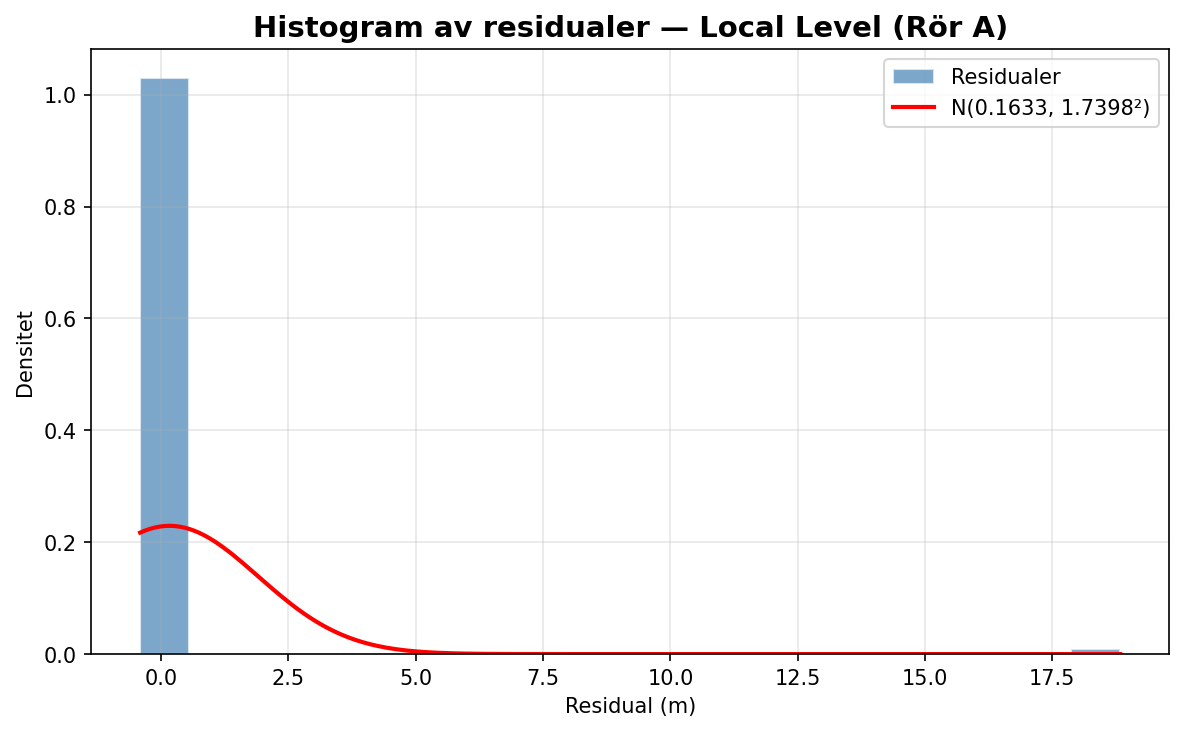
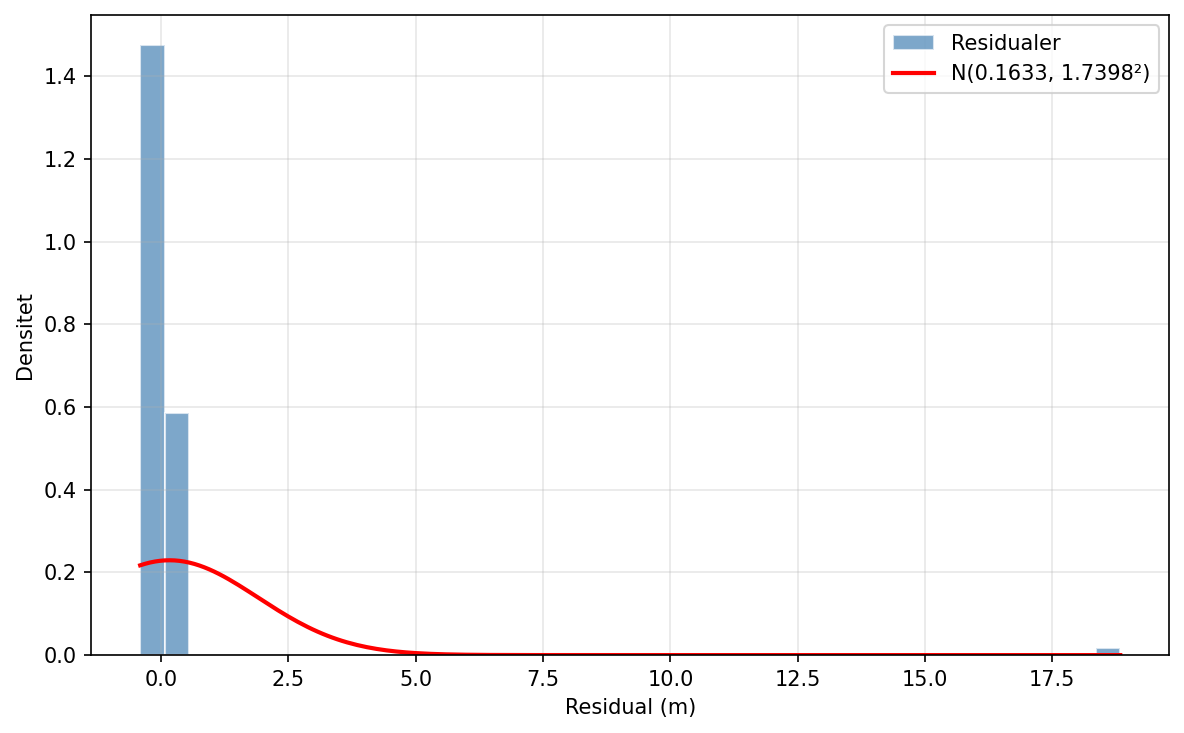
fixade residualerna
fixade residualerna

diff --git a/kandidatuppsats_endast_basror.py b/kandidatuppsats_endast_basror.py
@@ -419,7 +419,7 @@ def plot_histogram_residuals(out: dict, station_id: str) -> plt.Figure:
 
     fig, ax = plt.subplots(figsize=(8, 5))
 
-    ax.hist(residualer, bins=20, density=True, alpha=0.7,
+    ax.hist(residualer, bins=40, density=True, alpha=0.7,
             color="steelblue", edgecolor="white", label="Residualer")
 
     mu, sigma = residualer.mean(), residualer.std()
@@ -427,10 +427,7 @@ def plot_histogram_residuals(out: dict, station_id: str) -> plt.Figure:
     ax.plot(x, sp_stats.norm.pdf(x, mu, sigma),
             color="red", lw=2, label=f"N({mu:.4f}, {sigma:.4f}²)")
 
-    ax.set_title(
-        f"Histogram av residualer — Local Level ({station_id})",
-        fontsize=14, fontweight="bold",
-    )
+
     ax.set_xlabel("Residual (m)")
     ax.set_ylabel("Densitet")
     ax.legend()
@@ -439,7 +436,64 @@ def plot_histogram_residuals(out: dict, station_id: str) -> plt.Figure:
     return fig
 
 
+def plot_residuals_over_time(out: dict, station_id: str) -> plt.Figure:
+    """
+    Residualer över tid:
+    residual = observation - one-step-ahead prediction
+    """
 
+    obs = out["observed_base"]
+
+    # one-step-ahead prediction från Kalman-filtret
+    pred = out["filter_pred_base"].flatten()[:len(obs)]
+
+    residuals = obs - pred
+
+    # Tar bort NaN
+    valid = ~np.isnan(residuals)
+
+    dates = out["index"][valid]
+    residuals = residuals[valid]
+
+    if len(residuals) < 5:
+        print("  För få residualer för residualplot")
+        return None
+
+    fig, ax = plt.subplots(figsize=(14, 6))
+
+
+    # Residualserie
+    ax.plot(
+        dates,
+        residuals,
+        "o-",
+        color="steelblue",
+        linewidth=1.2,
+        markersize=3,
+        alpha=0.8,
+    )
+
+    # Horisontell linje vid 0
+    ax.axhline(0, color="black", linewidth=0.8)
+
+    ax.set_xlabel("Datum")
+    ax.set_ylabel("Residual")
+
+    # Datumformat
+    ax.xaxis.set_major_formatter(mdates.DateFormatter("%Y-%m"))
+
+    n_months = (dates[-1] - dates[0]).days / 30
+    interval = max(4, int(n_months / 8))
+
+    ax.xaxis.set_major_locator(mdates.MonthLocator(interval=interval))
+
+    plt.setp(ax.xaxis.get_majorticklabels(), rotation=30)
+
+    ax.grid(True, alpha=0.3)
+
+    plt.tight_layout()
+
+    return fig
 
 
 if __name__ == "__main__":
@@ -490,6 +544,23 @@ if __name__ == "__main__":
             fig_hist.savefig(hist_path, dpi=150, bbox_inches="tight")
             print(f"  Histogram sparad: {hist_path}")
             plt.close(fig_hist)
+
+
+        # Residualer över tid
+        fig_resid = plot_residuals_over_time(out, display_name)
+
+        if fig_resid is not None:
+            resid_path = f"residuals_over_time_{file_id}.png"
+
+            fig_resid.savefig(
+                resid_path,
+                dpi=150,
+                bbox_inches="tight"
+            )
+
+            print(f"  Residualplot sparad: {resid_path}")
+
+            plt.close(fig_resid)
 
     # ── Sammanfattning ──
     if all_metrics:
